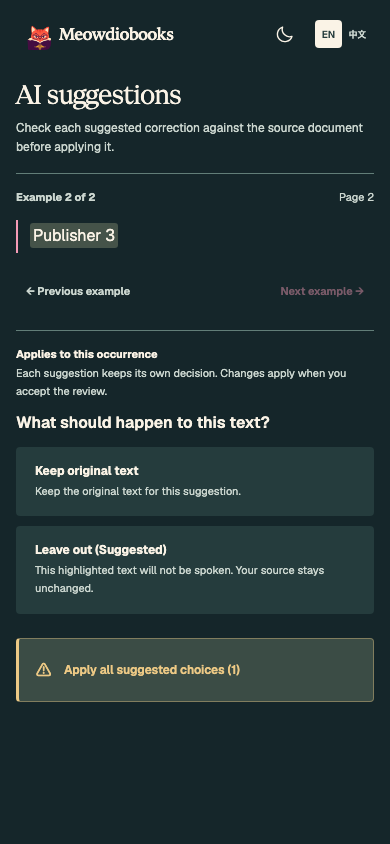
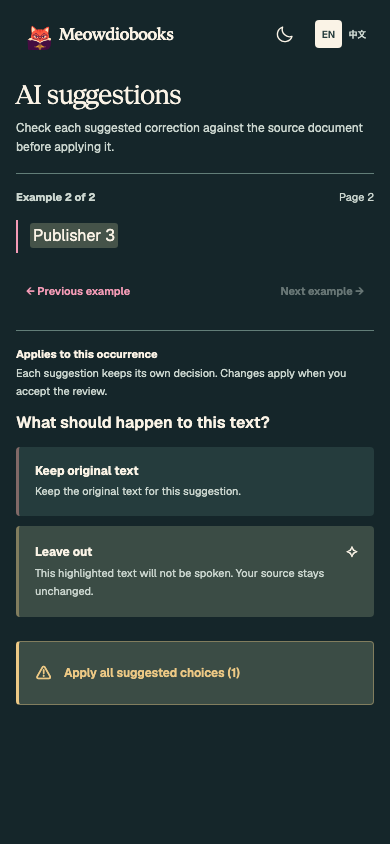
Match review suggestions to Dialogue and clear completed category highlights

diff --git a/frontend/src/App.test.tsx b/frontend/src/App.test.tsx
@@ -3184,7 +3184,7 @@ describe('v2 wizard', () => {
     fireEvent.click(within(screen.getByRole('navigation', { name: 'Wizard stages' })).getByText('Review'))
     expect(await screen.findByRole('heading', { name: 'Script directions' })).toBeInTheDocument()
     const apply = screen.getByRole('button', { name: /^(Apply all suggested choices|All suggestions decided)/ })
-    expect([...apply.closest(".resolution-options")!.querySelectorAll('button')].map((button) => button.querySelector('b')?.textContent)).toEqual(['Keep original text', 'Leave out (Suggested)', 'Apply all suggested choices (3)'])
+    expect([...apply.closest(".resolution-options")!.querySelectorAll('button')].map((button) => button.querySelector('b')?.textContent)).toEqual(['Keep original text', 'Leave out', 'Apply all suggested choices (3)'])
     expect(screen.getByText('AI checked')).toBeInTheDocument()
     expect(screen.getByRole('button', { name: /^Leave out(?: \(Suggested\))? This highlighted/ })).toHaveClass('review-recommended')
     expect(screen.getByRole('button', { name: /^Leave out(?: \(Suggested\))? This highlighted/ })).toHaveAttribute('aria-pressed', 'false')
@@ -3234,7 +3234,7 @@ describe('v2 wizard', () => {
     expect(screen.getByRole('heading', { name: 'AI suggestions' }).closest('.review-group-heading')).not.toHaveTextContent('warning')
     expect(screen.getByRole('complementary', { name: 'Decision queue' })).not.toHaveTextContent('warning')
     expect(within(screen.getByRole('complementary', { name: 'Decision queue' })).queryByRole('button', { name: /^Apply all/ })).not.toBeInTheDocument()
-    expect([...apply.closest(".resolution-options")!.querySelectorAll('button')].map((button) => button.querySelector('b')?.textContent)).toEqual(['Keep original text', 'Leave out', 'Apply correction (Suggested)', 'Apply all suggested choices (2)'])
+    expect([...apply.closest(".resolution-options")!.querySelectorAll('button')].map((button) => button.querySelector('b')?.textContent)).toEqual(['Keep original text', 'Leave out', 'Apply correction', 'Apply all suggested choices (2)'])
     expect(screen.queryByRole('button', { name: /Try extraction again/ })).not.toBeInTheDocument()
     fireEvent.click(screen.getByRole('button', { name: /^Keep original text Keep the original/ }))
     expect(screen.getByRole('button', { name: /^Leave out(?: \(Suggested\))? This highlighted/ })).toHaveClass('review-recommended')
@@ -3298,7 +3298,7 @@ describe('v2 wizard', () => {
     vi.mocked(wizardApi.getStageCandidate).mockResolvedValue({ revision: 'review-single', warnings: [{ ...warning, occurrences: [warning.occurrences[0]] }], boundaryCandidates: [] })
     await open(snapshot)
     fireEvent.click(within(screen.getByRole('navigation', { name: 'Wizard stages' })).getByText('Review'))
-    const suggested = await screen.findByRole('button', { name: /^(Apply correction|Leave out) \(Suggested\)/ })
+    const suggested = await screen.findByRole('button', { name: warning.kind === 'ai-cleanup' ? /^Apply correction/ : /^Leave out/ })
     expect(suggested).toHaveAttribute('aria-pressed', 'false')
     expect(screen.queryByRole('button', { name: /Apply all suggested choices|All suggestions decided/ })).not.toBeInTheDocument()
     fireEvent.click(suggested)
@@ -3312,9 +3312,12 @@ describe('v2 wizard', () => {
     vi.mocked(wizardApi.getStageCandidate).mockResolvedValue({ revision: 'review-inline', warnings: [cleanupWarning], boundaryCandidates: [] })
     await open(snapshot)
     fireEvent.click(within(screen.getByRole('navigation', { name: 'Wizard stages' })).getByText('Review'))
-    const correction = await screen.findByRole('button', { name: 'Apply correction (Suggested) broken' })
+    const correction = await screen.findByRole('button', { name: 'Apply correction broken' })
     expect(correction).toHaveClass('review-recommended')
     expect(correction).toHaveAttribute('aria-pressed', 'false')
+    expect(correction).toHaveAttribute('aria-description', 'Suggested choice for this passage')
+    expect(correction).toHaveTextContent('✧')
+    expect(correction).not.toHaveTextContent('✓')
     expect(screen.queryByLabelText('Proposed correction')).not.toBeInTheDocument()
     fireEvent.click(correction)
     expect(screen.getByText('Example 2 of 3')).toBeInTheDocument()
@@ -3323,7 +3326,9 @@ describe('v2 wizard', () => {
     expect(screen.getByRole('button', { name: /^Leave out(?: \(Suggested\))? This highlighted/ })).toHaveAttribute('aria-pressed', 'true')
     expect(screen.queryByRole('button', { name: /^Apply correction/ })).not.toBeInTheDocument()
     fireEvent.click(screen.getByRole('button', { name: '← Previous example' }))
-    expect(screen.getByRole('button', { name: 'Apply correction (Suggested) broken' })).toHaveAttribute('aria-pressed', 'true')
+    expect(screen.getByRole('button', { name: 'Apply correction broken' })).toHaveAttribute('aria-pressed', 'true')
+    expect(screen.getByRole('button', { name: 'Apply correction broken' })).toHaveTextContent('✓')
+    expect(screen.getByRole('button', { name: 'Apply correction broken' })).not.toHaveTextContent('✧')
   })
 
   it('moves saved overlapping corrections into AI suggestions without duplicating source-only warnings', async () => {
@@ -3587,6 +3592,7 @@ describe('v2 wizard', () => {
       fireEvent.click(groups.getByRole('button', { name: /Suspicious extracted text/ }))
       fireEvent.click(screen.getByRole('button', { name: /^Keep as is/ }))
       await waitFor(() => expect(groups.getByRole('button', { name: /AI suggestions/ })).toHaveFocus())
+      expect(groups.getByRole('button', { name: /AI suggestions/ })).toHaveAttribute('aria-current', 'true')
       expect(screen.getByText('Example 2 of 2')).toBeInTheDocument()
       fireEvent.click(groups.getByRole('button', { name: /AI suggestions/ }))
       expect(screen.getByText('Example 2 of 2')).toBeInTheDocument()
@@ -3597,6 +3603,11 @@ describe('v2 wizard', () => {
       fireEvent.click(screen.getByRole('button', { name: /^Start a new chapter/ }))
       await waitFor(() => expect(screen.getByRole('button', { name: 'Review complete transcript →' })).toHaveFocus())
       expect(screen.getByRole('heading', { name: 'Chapter starts' })).toBeInTheDocument()
+      expect(document.querySelectorAll('.review-strip > button.active')).toHaveLength(0)
+      expect(groups.getByRole('button', { name: /Chapter starts/ })).toHaveAttribute('aria-current', 'true')
+      fireEvent.click(groups.getByRole('button', { name: /AI suggestions/ }))
+      expect(document.querySelectorAll('.review-strip > button.active')).toHaveLength(0)
+      expect(groups.getByRole('button', { name: /AI suggestions/ })).toHaveAttribute('aria-current', 'true')
       expect(wizardApi.acceptStage).not.toHaveBeenCalled()
     } finally {
       window.matchMedia = originalMatchMedia

diff --git a/frontend/src/pages/ReviewPage.tsx b/frontend/src/pages/ReviewPage.tsx
@@ -328,8 +328,8 @@ export function ReviewPage({ model }: { model: ReviewPageModel; }) {
       <aside className="review-queue" aria-label={t("Decision queue")}>
         <div className="review-queue-heading"><span className="eyebrow">{t("Decision queue")}</span><b>{t("{{decided}} / {{total}} decided", { decided: decidedGroups, total: totalGroups })}</b></div>
         <nav className="review-strip" aria-label={t("Review groups")} ref={reviewStripRef}>
-          {boundaries.length > 0 && <button data-review-group="chapters" className={[showingBoundary ? "active" : "", boundaries.every((row) => boundaryDecisions[row.id]) ? "resolved" : ""].filter(Boolean).join(" ")} onClick={() => openBoundary(activeBoundary)}><span>{boundaries.every((row) => boundaryDecisions[row.id]) ? "✓" : 1}</span><span><strong>{t("Chapter starts")}</strong><small>{t("{{count}} headings · structure", { count: boundaries.length })}</small></span></button>}
-          {candidateWarnings.map((row, index) => <button key={row.id} data-review-group={`warning-${index}`} className={[!showingBoundary && index === activeWarning ? "active" : "", reviewWarningResolved(row, reviewDecisions) ? "resolved" : ""].filter(Boolean).join(" ")} onClick={() => openWarning(index)}><span>{reviewWarningResolved(row, reviewDecisions) ? "✓" : index + (boundaries.length ? 2 : 1)}</span><span><strong>{t(reviewWarningLabel(row.kind))}</strong><small>{t(row.occurrences.length === 1 ? "1 occurrence" : "{{count}} occurrences", { count: row.occurrences.length })}{row.severity === "blocking" && ` · ${t("blocking")}`}</small></span></button>)}
+          {boundaries.length > 0 && <button data-review-group="chapters" aria-current={showingBoundary ? "true" : undefined} className={[showingBoundary && !boundaries.every((row) => boundaryDecisions[row.id]) ? "active" : "", boundaries.every((row) => boundaryDecisions[row.id]) ? "resolved" : ""].filter(Boolean).join(" ")} onClick={() => openBoundary(activeBoundary)}><span>{boundaries.every((row) => boundaryDecisions[row.id]) ? "✓" : 1}</span><span><strong>{t("Chapter starts")}</strong><small>{t("{{count}} headings · structure", { count: boundaries.length })}</small></span></button>}
+          {candidateWarnings.map((row, index) => <button key={row.id} data-review-group={`warning-${index}`} aria-current={!showingBoundary && index === activeWarning ? "true" : undefined} className={[!showingBoundary && index === activeWarning && !reviewWarningResolved(row, reviewDecisions) ? "active" : "", reviewWarningResolved(row, reviewDecisions) ? "resolved" : ""].filter(Boolean).join(" ")} onClick={() => openWarning(index)}><span>{reviewWarningResolved(row, reviewDecisions) ? "✓" : index + (boundaries.length ? 2 : 1)}</span><span><strong>{t(reviewWarningLabel(row.kind))}</strong><small>{t(row.occurrences.length === 1 ? "1 occurrence" : "{{count}} occurrences", { count: row.occurrences.length })}{row.severity === "blocking" && ` · ${t("blocking")}`}</small></span></button>)}
         </nav>
 
       </aside>
@@ -363,8 +363,8 @@ export function ReviewPage({ model }: { model: ReviewPageModel; }) {
                 const recommended = ((isScriptCue || isAiCleanup) && occurrence.recommendedAction === action)
                   || (hasCleanupSuggestion && (deletionSuggestion ? action === "exclude" : action === "repair"));
                 const selected = selectedAction === action || (deletionSuggestion && action === "exclude" && selectedAction === "repair");
-                return <button key={action} aria-pressed={selected} aria-description={recommended ? t("Suggested choice for this passage") : undefined} className={[recommended ? "review-recommended" : "", selected ? "selected" : ""].filter(Boolean).join(" ")} onClick={() => perOccurrence ? chooseOccurrenceAction(action) : chooseReviewAction(warning.id, action)}>
-                  <span className="review-choice-title"><b>{recommended ? t("{{choice}} (Suggested)", { choice: t(reviewActionTitle(action, actionWarning)) }) : t(reviewActionTitle(action, actionWarning))}</b>{selected && <span className="review-choice-check" aria-hidden="true">✓</span>}</span>
+                return <button key={action} aria-pressed={selected} aria-description={recommended ? t("Suggested choice for this passage") : undefined} className={[recommended ? "review-recommended" : "", recommended && selectedAction && !selected ? "review-recommended-muted" : "", selected ? "selected" : ""].filter(Boolean).join(" ")} onClick={() => perOccurrence ? chooseOccurrenceAction(action) : chooseReviewAction(warning.id, action)}>
+                  <span className="review-choice-title"><b>{t(reviewActionTitle(action, actionWarning))}</b>{selected ? <span className="review-choice-check" aria-hidden="true">✓</span> : recommended && <span className="review-choice-suggestion" aria-hidden="true">✧</span>}</span>
                   <small className={action === "repair" ? "cleanup-replacement" : undefined}>{action === "repair" && typeof occurrence.replacement === "string" && occurrence.replacement !== "" ? occurrence.replacement : reviewConsequence(action, actionWarning, t)}</small>
                 </button>;
               })}

diff --git a/frontend/src/styles/review-extract-stage.css b/frontend/src/styles/review-extract-stage.css
@@ -114,6 +114,10 @@
 /* Suggestions, user selections, and bulk actions have separate visual meanings. */
 .review-choice-title { display: flex; align-items: center; justify-content: space-between; gap: .75rem; }
 .resolution-options .cleanup-replacement { font-size: 16px; color: var(--color-ink, var(--ink)); }
+/* Match Dialogue's AI options while reserving selected styling for a user choice. */
+.resolution-options button.review-recommended:not(.selected) { background: var(--warning-soft); border-color: var(--warning-border); color: var(--ink); }
+.resolution-options button.review-recommended-muted:not(.selected) { background: color-mix(in srgb, var(--amber) 5%, var(--paper)); border-color: var(--line); color: var(--muted); }
+.review-choice-suggestion { font-size: 15px; font-weight: 400; }
 .review-choice-check { color: var(--color-action, var(--poppy)); }
 .review-bulk-area { grid-column: 1 / -1; padding-top: 14px; }
 .resolution-options .cleanup-bulk-warning { display: flex; align-items: center; justify-content: flex-start; gap: 12px; width: 100%; min-height: 64px; padding: 16px; border: 1px solid var(--warning-border); border-left: 3px solid var(--warning-ink); border-radius: 4px; background: var(--warning-soft); box-shadow: none; text-align: left; color: var(--warning-ink); }

diff --git a/frontend/src/styles/pages.css b/frontend/src/styles/pages.css
@@ -125,6 +125,8 @@
 .review-strip { display: flex; flex-direction: column; gap: 6px; padding: 0; overflow: visible; border: 0; border-radius: 0; background: transparent; mask-image: none; }
 /* Cards retain all four borders, including the legacy strip's last item. */
 .review-strip > button, .review-strip > button:last-child { display: flex; flex: none; max-width: none; align-items: start; gap: 9px; width: 100%; min-width: 0; padding: 12px 10px; border: 1px solid transparent; border-radius: 5px; background: transparent; text-align: left; }
+/* Completion is a checkmark, not another active-card fill from the legacy strip. */
+.review-strip > button.resolved { background: transparent; border-color: transparent; box-shadow: none; }
 .review-strip > button.active { background: var(--blush); border-color: var(--line); color: var(--ink); box-shadow: inset 3px 0 var(--poppy); }
 .review-strip > button > span:first-child { flex: 0 0 20px; width: 20px; height: 20px; border-radius: 3px; font: 600 11px var(--font-sans); color: var(--muted); background: var(--surface-soft); }
 .review-strip > button.resolved > span:first-child { color: var(--green); background: var(--green-soft); }

diff --git a/frontend/stories/ScriptDirections.stories.tsx b/frontend/stories/ScriptDirections.stories.tsx
@@ -38,7 +38,7 @@ export const ManualChoiceSurvivesBulk: Story = {
     await enterScenario(canvasElement, "review");
     const canvas = within(canvasElement);
     const apply = canvas.getByRole("button", { name: /^(Apply all suggested choices|All suggestions decided)/ });
-    await expect([...apply.closest(".resolution-options")!.querySelectorAll("button")].map((button) => button.querySelector("b")?.textContent)).toEqual(["Keep original text", "Leave out (Suggested)", "Apply all suggested choices (3)"]);
+    await expect([...apply.closest(".resolution-options")!.querySelectorAll("button")].map((button) => button.querySelector("b")?.textContent)).toEqual(["Keep original text", "Leave out", "Apply all suggested choices (3)"]);
     await userEvent.click(canvas.getByRole("button", { name: /^Keep original text This highlighted/ }));
     await userEvent.click(apply);
     await expect(apply).toBeDisabled();

diff --git a/frontend/stories/AliceReviewPassages.stories.tsx b/frontend/stories/AliceReviewPassages.stories.tsx
@@ -92,7 +92,7 @@ export const VerseAiSuggestion: Story = {
     await expect(passage.querySelector("mark")?.textContent).toBe("two p\n ennyworth");
     await expect(passage.textContent).toContain("“Beautiful Soup! Who cares for fish,\n Game, or any other dish?");
     await expect(within(passage).queryByText(/Chorus again/)).not.toBeInTheDocument();
-    await expect(canvas.getByRole("button", { name: "Apply correction (Suggested) two pennyworth" })).toHaveClass("review-recommended");
+    await expect(canvas.getByRole("button", { name: "Apply correction two pennyworth" })).toHaveClass("review-recommended");
     await expect(canvas.queryByLabelText("Proposed correction")).not.toBeInTheDocument();
   },
 };

diff --git a/docs/reviews/mobile-review/README.md b/docs/reviews/mobile-review/README.md
@@ -15,7 +15,8 @@ Scroll targets use the measured sticky-header bottom plus 12px, rather than a fi
 Short categories get only enough scroll room after the final controls to align correctly; there is
 no spacer between choices and the final action. Scrolling is smooth unless reduced motion is requested.
 Desktop retains its existing queue navigation, automatic progression, and disabled transcript action
-until all decisions are complete. These mobile transitions do not alter desktop behavior.
+until all decisions are complete. These mobile transitions do not alter desktop behavior. The shared suggestion-card and completed-category
+styles described below apply at every viewport size.
 
 Both layouts show all supplied bounded chapter context, including split title lines and opening
 passages, with compact paragraph spacing and the exact original anchor highlighted. This is display
@@ -44,6 +45,26 @@ scroll/focus reset on both mobile and desktop. Transcript loading, paging, and z
 - [Mobile final action after all categories complete](all-complete-390.png)
 - [Mobile final-check entry](final-check-390.png)
 - [Desktop final-check entry](final-check-1440.png)
+
+## Suggestion cards and tablet category states
+
+Suggested choices now match Dialogue’s “Who reads this line?” options: the same outlined sparkle,
+warning-soft background, and warning-border tokens. Choosing another option mutes the suggestion;
+choosing the suggestion replaces its sparkle with a checkmark and the existing Review selection tint.
+Suggestions remain undecided until explicitly selected. The accessible suggestion description remains.
+
+Completed queue cards now consistently have a neutral background and a green checkmark. Only the
+current unfinished category has an active highlight. When all categories are complete, none has an
+active fill. `aria-current` still identifies the displayed category, and keyboard focus keeps its
+existing visible outline. This fixes a shared cascade conflict: legacy completed-card gradients had
+higher specificity than the normal card style, but the last-child rule overrode only the last card.
+
+| Tablet state | Before this follow-up (`379c74f`) | Current draft |
+| --- | --- | --- |
+| Two categories complete | ![Before partial queue](tablet-queue-partial-before.png) | ![After partial queue](tablet-queue-partial-after.png) |
+| All categories complete | ![Before complete queue](tablet-queue-complete-before.png) | ![After complete queue](tablet-queue-complete-after.png) |
+
+![Suggested correction with Dialogue sparkle and tint](tablet-suggestion.png)
 
 ## Reproducible verification
 
@@ -76,10 +97,11 @@ Results:
 - Focused real-browser stories: 5 files, 21 tests passed, including existing public-domain Alice
   URL, credits, and verse passages; synthetic split-title, legacy context, script directions,
   source-check-after-bulk, and manual-choice preservation.
-- Browser matrix: 320×844, 390×844, 650×1400, 768×844, and 1440×844, light and dark. Each follows the three mobile destinations
+- Browser matrix: 320×844, 390×844, 650×1400, 768×844, 834×1112, and 1440×844, light and dark. Each follows the three mobile destinations
   or existing desktop flow, resolves every decision, opens the transcript, returns, and verifies the
   manually kept choice. Before completion the final action is hidden on mobile. After completion it
-  is visible/focused, and scrolling never moves upward. No horizontal overflow or axe violations.
+  is visible/focused, and scrolling never moves upward. No horizontal overflow or axe violations. All 12 viewport/theme cases also verify Dialogue’s
+  suggestion color tokens, the sparkle and muted state, and equal neutral styling across completed cards.
 - Browser motion checks at 390×600 verify animated movement for both example and category completion,
   plus immediate reduced-motion behavior. A synthetic 104px sticky header verifies measured alignment;
   exact target geometry is checked after scrolling settles. The short-category case verifies that the

diff --git a/frontend/DESIGN_SYSTEM.md b/frontend/DESIGN_SYSTEM.md
@@ -140,9 +140,14 @@ Do not repeat an AI proposal in a separate correction panel or explanatory parag
 Deletion proposals mark Leave as suggested; word repairs show the exact replacement inside Apply correction,
 after Keep and Leave and before the separate bulk action.
 
-A suggested individual choice remains visually neutral and adds “(Suggested)” to its title; only an
-explicit choice uses the action tint and checkmark. Do not preselect suggestions or count them as
-decisions. Show bulk suggestions only when the action covers more than one suggestion in total;
+A suggested individual choice matches Dialogue’s reader options: an outlined sparkle and subtle
+warning tint, muted when another choice is selected. Only an explicit choice uses the selected
+action tint and checkmark, replacing the sparkle. Do not preselect suggestions or count them as
+decisions. Completed queue categories use neutral backgrounds and checkmarks; only the current
+unfinished category receives the active fill. Keep keyboard focus visible and expose the displayed
+category through aria-current, including when revisiting a completed category.
+
+Show bulk suggestions only when the action covers more than one suggestion in total;
 a larger review keeps its bulk action even when just one undecided suggestion remains.
 Use a full-width warning-tinted block with a nearby icon and left-aligned title, no extra help paragraph.
 On wide layouts, push this block to the bottom of the decision sidebar with flexible space above;
